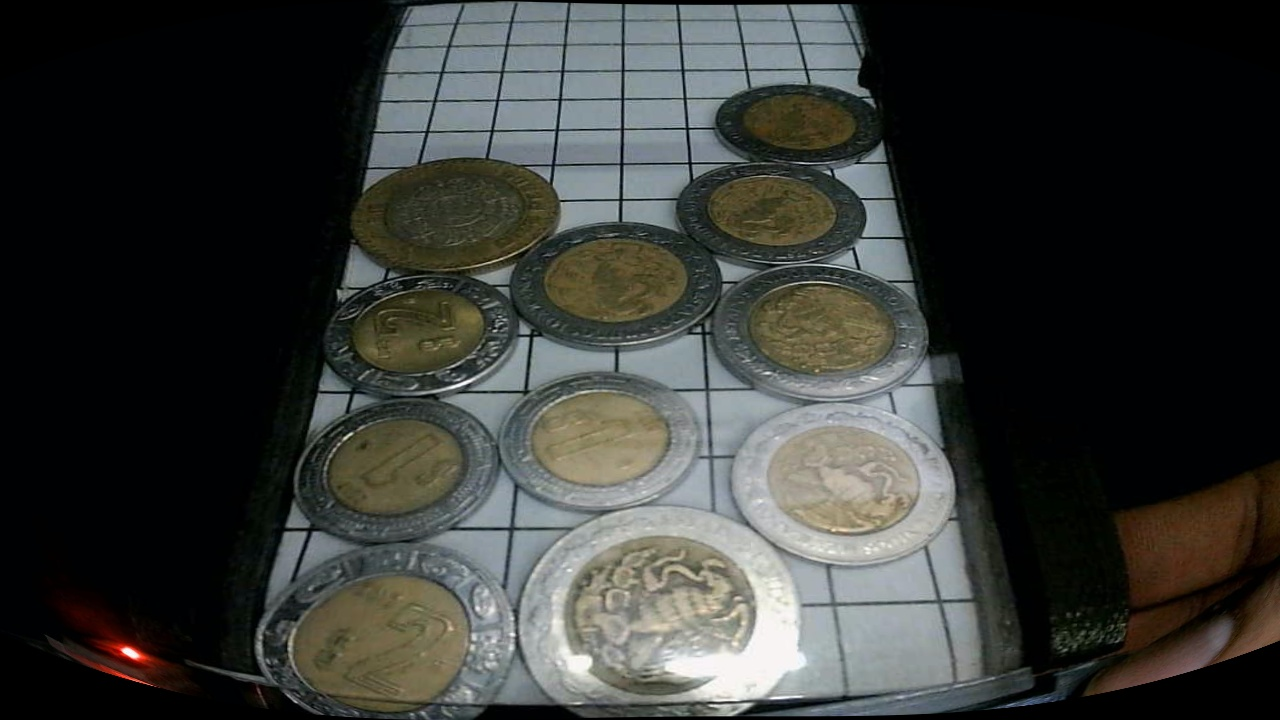
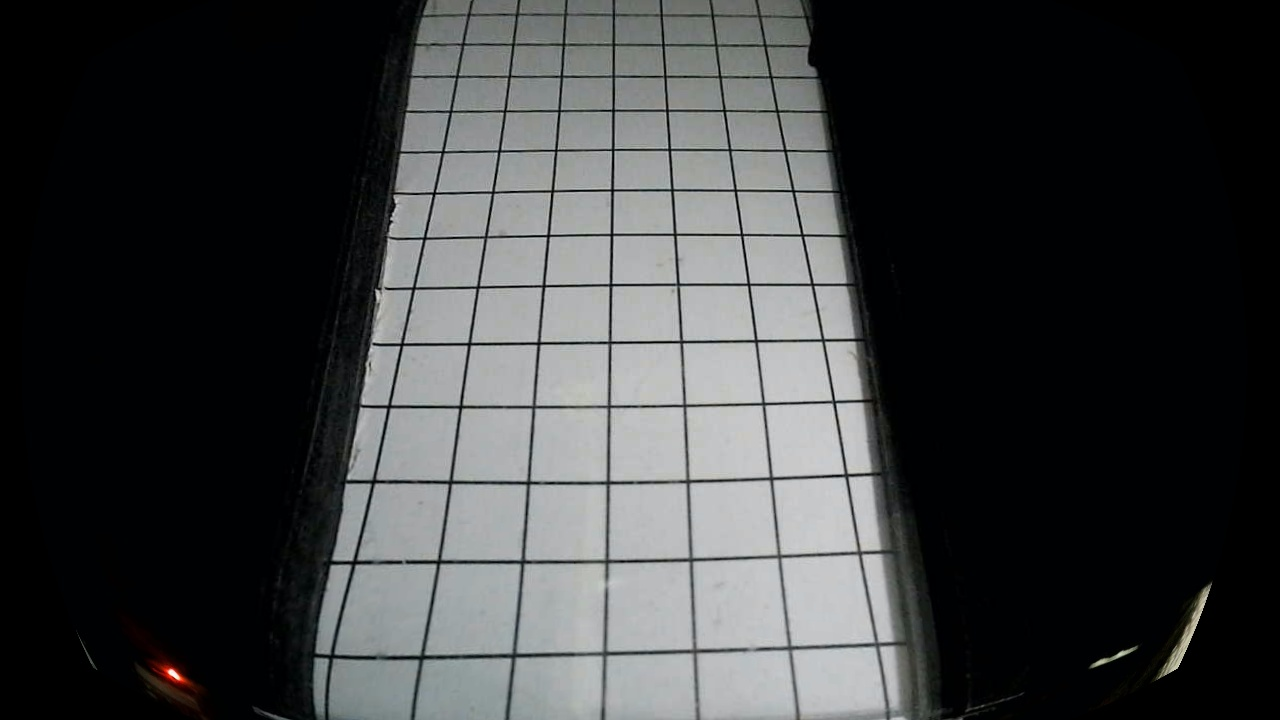
distortion, resizing and perspective translation

diff --git a/ImgManuallyCalibration/main.py b/ImgManuallyCalibration/main.py
@@ -1,5 +1,12 @@
 import numpy as np
 import cv2 as cv
+from numpy.matrixlib.defmatrix import matrix
+
+
+def perpectiveTransform( pts1, pts2, img):
+    matrix = cv.getPerspectiveTransform(pts1, pts2)
+    result = cv.warpPerspective(img, matrix, (1280, 720))
+    return result
 
 # Define chessboard size (number of inner corners in width and height)
 chessboardSize = (7, 14)
@@ -23,6 +30,8 @@ cnrs = np.array([
     [[774, 555]], [[851, 548]],[[369, 623]], [[442, 631]], [[522, 638]], [[605, 640]], [[691, 638]], [[781, 632]], [[859, 623]]
 ], dtype=np.float32)
 
+
+
 # Prepare object points based on chessboard size
 objp = np.zeros((chessboardSize[0] * chessboardSize[1], 3), np.float32)
 objp[:, :2] = np.mgrid[0:chessboardSize[0], 0:chessboardSize[1]].T.reshape(-1, 2)
@@ -30,8 +39,6 @@ objp[:, :2] = np.mgrid[0:chessboardSize[0], 0:chessboardSize[1]].T.reshape(-1, 2
 # Convert object points and image points to the correct format
 objPoints = [objp]  # List of object point arrays
 imgPoints = [cnrs]  # List of image point arrays
-
-# Perform camera calibration
 ret, cameraMatrix, dist, rvecs, tvecs = cv.calibrateCamera(objPoints, imgPoints, frameSize, None, None)
 
 # Check calibration success
@@ -45,23 +52,27 @@ else:
 
 ######## Undistort
 # Load an image for undistortion
-img = cv.imread('WIN_20240826_19_31_22_Pro.jpg')
+img = cv.imread('WIN_20240826_16_25_44_Pro.jpg')
 h, w = img.shape[:2]
-newCameraMatrix, roi = cv.getOptimalNewCameraMatrix(cameraMatrix, dist, (w, h), 1, (w, h))
 
 # Undistort the image
-dst = cv.undistort(img, cameraMatrix, dist, None, newCameraMatrix)
-# Crop the image based on the ROI
+dst = cv.undistort(img, cameraMatrix, dist, None, None)
 
-cv.imwrite('distort_result.jpg', dst)
+
+cv.imread('distort_result.jpg', dst)
 
 # Undistort with remapping
-mapx, mapy = cv.initUndistortRectifyMap(cameraMatrix, dist, None, newCameraMatrix, (1280, 720), 5)
+mapx, mapy = cv.initUndistortRectifyMap(cameraMatrix, dist, None, None, (1480, 920), 5)
 dst = cv.remap(img, mapx, mapy, cv.INTER_LINEAR)
-# Crop the image based on the ROI
-x, y, w, h = roi
-dst = dst[y:y+h, x:x+w]
-cv.imwrite('distort_result_remap.jpg', dst)
+
+#Resize image distorted and transformed
+resizedst = cv.resize(dst, (1280, 720))
+
+pt1 = np.float32([[395,33], [820, 33], [266, 690], [1005, 690]])
+pt2 = np.float32([[0, 0], [1280, 0],[0, 720],[1280, 720]])
+ptfm = perpectiveTransform(pt1, pt2, resizedst)
+
+cv.imwrite('distort_result_remap.jpg', ptfm)
 
 # Compute and print reprojection error
 mean_error = 0
